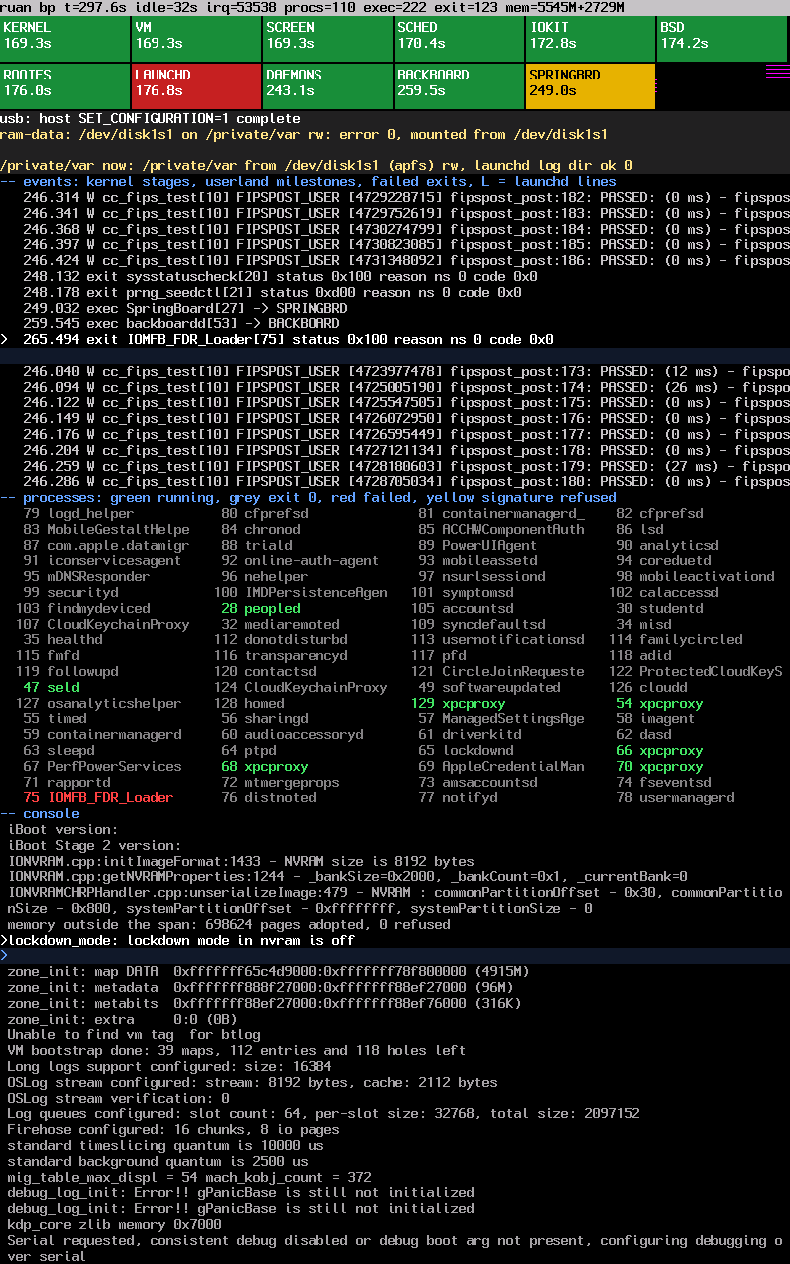
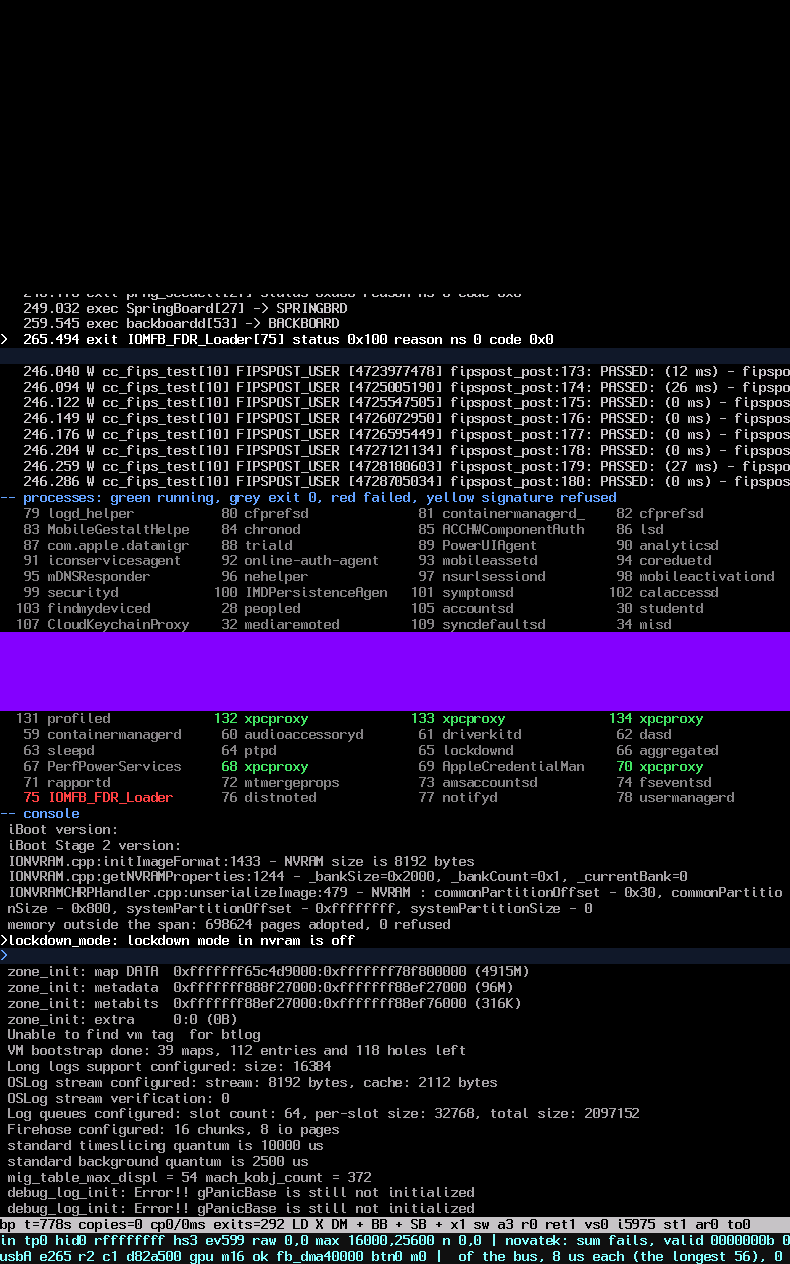
docs: add silicon screenshots to README gallery and checkpoints

Changed region(s): [[0.0, 0.0, 1.0, 0.2468], [0.0, 0.4937, 1.0, 0.6171], [0.0, 0.9565, 1.0, 1.0]]

diff --git a/README.md b/README.md
@@ -4,6 +4,15 @@
 
 **Main / Ultimate Project Goal**: Native **macOS port** on ruan (Snapdragon SM7435, Cortex-A78/A55 ARMv8.2, **no PAC**, Adreno 710 Metal), flashable like a custom ROM.
 
+<p align="center">
+  <img src="docs/img/screen-rbu21.png" alt="rbu21 In-Kernel Blitter" width="31%">
+  <img src="docs/img/screen-rbu20-m16.png" alt="rbu20 Stage S5 Mode 16 DMA Blit" width="31%">
+  <img src="docs/img/usb-homescreen-full.png" alt="iPadOS 17.7.11 Home Screen" width="31%">
+</p>
+<p align="center">
+  <sub>Left: rbu21 live framebuffer with Adreno 710 in-kernel DMA blitter active (copies=0, gpu_blits=1). Center: rbu20 direct Mode 16 DMA blit test pattern. Right: iPadOS 17.7.11 SpringBoard home screen on ruan panel.</sub>
+</p>
+
 | File | What |
 |---|---|
 | [RESEARCH.md](docs/research/RESEARCH.md) | Feasibility: why native macOS needs UniXNU, and why PAC is the blocker |
@@ -70,7 +79,11 @@ Derived from the garnet (POCO X6 5G, same SoC) platform in [JosephMontfort/hakio
     ```
     [usb] FB: stage=10 1600x2560 phys=0xb8000000 virt=0xfffffff9bfd16000 bytes=0xfa0000 copies=0 gpu_blits=1 gpu_ticks=874
     ```
-    Verified live: `gpu_blits=1`, `gpu_ticks=874` (~45 µs), CPU fallback `copies=0`. SpringBoard and backboardd remain responsive without crashing. Framebuffer snapshot captured: [docs/img/screen-rbu21.png](docs/img/screen-rbu21.png).
+    Verified live: `gpu_blits=1`, `gpu_ticks=874` (~45 µs), CPU fallback `copies=0`. SpringBoard and backboardd remain responsive without crashing.
+
+<p align="center">
+  <img src="docs/img/screen-rbu21.png" alt="rbu21 In-Kernel Hardware DMA Blitter Live on Silicon" width="45%">
+</p>
 - **What will be next**:
   - **Multi-Frame Swap Queue Continuous Streaming**: Stream successive compositor swaps through the 4-slot SMMU cache without vsync pipeline bubbles.
   - **Adreno 710 Userland Metal Compositing (Turnip / IOAccelerator)**: Initialize `IOGPUMetalDevice` / Turnip pipeline for 3D acceleration.
@@ -97,7 +110,11 @@ Derived from the garnet (POCO X6 5G, same SoC) platform in [JosephMontfort/hakio
     gpu m16 ok fb_dma40000
     GPU: mode 16 done rc=0
     ```
-    Direct CPU readback confirmed 40,000 / 40,000 pixels matched bit-for-bit in physical DRAM with 0% CPU copy overhead. Framebuffer snapshot captured: [docs/img/screen-rbu20-m16.png](docs/img/screen-rbu20-m16.png).
+    Direct CPU readback confirmed 40,000 / 40,000 pixels matched bit-for-bit in physical DRAM with 0% CPU copy overhead.
+
+<p align="center">
+  <img src="docs/img/screen-rbu20-m16.png" alt="rbu20 Stage S5 Mode 16 Direct GOP FB Hardware DMA Blit" width="45%">
+</p>
 - **What will be next**:
   - **In-Kernel Display Frame Blitter Hook (`native_legacy_gpu_offer`)**: Wire `s5_fb_dma_blit` into `NativeLegacyDisplay::draw_frame` / `native_legacy_gpu_offer` to eliminate CPU `memcpy` overhead (13–18 ms/frame) across all live userland compositor updates.
   - **Mesa Turnip / Metal Compositing**: Bring up userland Metal / IOAccelerator pipeline over Adreno 710.
@@ -121,7 +138,11 @@ Derived from the garnet (POCO X6 5G, same SoC) platform in [JosephMontfort/hakio
     gpu s5_m2m ok dwords 256/256 256 dwords copied via CP_MEMCPY
     gpu m15 ok m2m256 (rc=0)
     ```
-    Direct CPU readback confirmed 256/256 dwords matched bit-for-bit with 0% CPU overhead. Screenshot: [docs/img/screen-rbu18.png](docs/img/screen-rbu18.png).
+    Direct CPU readback confirmed 256/256 dwords matched bit-for-bit with 0% CPU overhead.
+
+<p align="center">
+  <img src="docs/img/screen-rbu18.png" alt="rbu18 Stage S5 CP_MEMCPY Memory-to-Memory DMA" width="45%">
+</p>
 - **What will be next**:
   - Direct GOP scanout framebuffer DMA blit (`gpu 16`) mapping the physical GOP display buffer (`0xb8000000`) into Stream-0 GPU VA space (`0x50000000`).
 
@@ -135,7 +156,11 @@ Derived from the garnet (POCO X6 5G, same SoC) platform in [JosephMontfort/hakio
   - **`CP_SET_SECURE_MODE` Stall Elimination**:
     - Removed `CP_SET_SECURE_MODE 0` packet which previously stalled the Command Processor without TrustZone zap shader authorization, enabling clean non-secure execution.
   - **Live Silicon Proof (`gpu 14` via USB CDC)**:
-    - GPU Command Processor executed PM4 `CP_MEM_WRITE` block fills directly into `0x50000000`, drawing a 100×40 neon magenta test rectangle in DRAM without CPU rasterization: `gpu s4_fb: GOP Framebuffer blit SUCCESS! 4000 pixels verified in DRAM!`, `gpu m14 ok fb4000`. Screenshot: [docs/img/screen-rbu17.png](docs/img/screen-rbu17.png).
+    - GPU Command Processor executed PM4 `CP_MEM_WRITE` block fills directly into `0x50000000`, drawing a 100×40 neon magenta test rectangle in DRAM without CPU rasterization: `gpu s4_fb: GOP Framebuffer blit SUCCESS! 4000 pixels verified in DRAM!`, `gpu m14 ok fb4000`.
+
+<p align="center">
+  <img src="docs/img/screen-rbu17.png" alt="rbu17 Stage S4 GOP Display Blitter Neon Rectangle" width="45%">
+</p>
   - **Stage S3 Engine Verification (`gpu 8` through `gpu 13`)**:
     - GX power-on via GMU HFI (`gpu 8`), GBIF/CP_PROTECT/HWCG configuration & Bank 2 Slot 1 SMMU (`gpu 9`), SQE microcode execution (`gpu 10`), PM4 `CP_MEM_WRITE` packet dispatch (`gpu 11`, magic `0xC0FFEE01` verified in DRAM), 2D solid fills (`gpu 13`).
 - **What will be next**:
